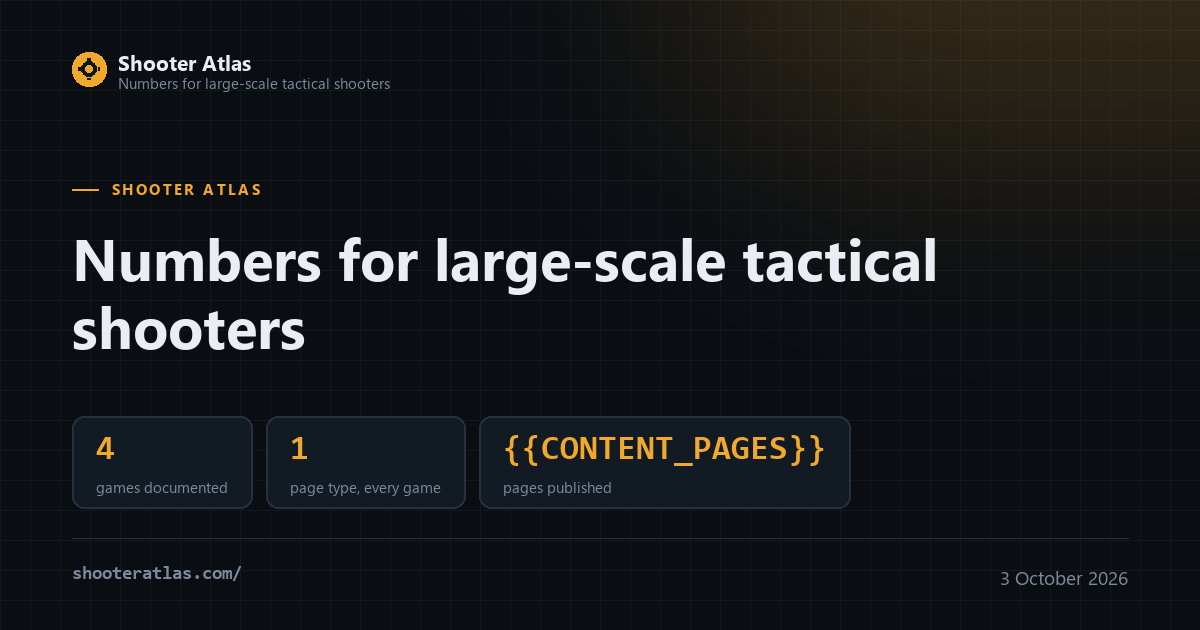
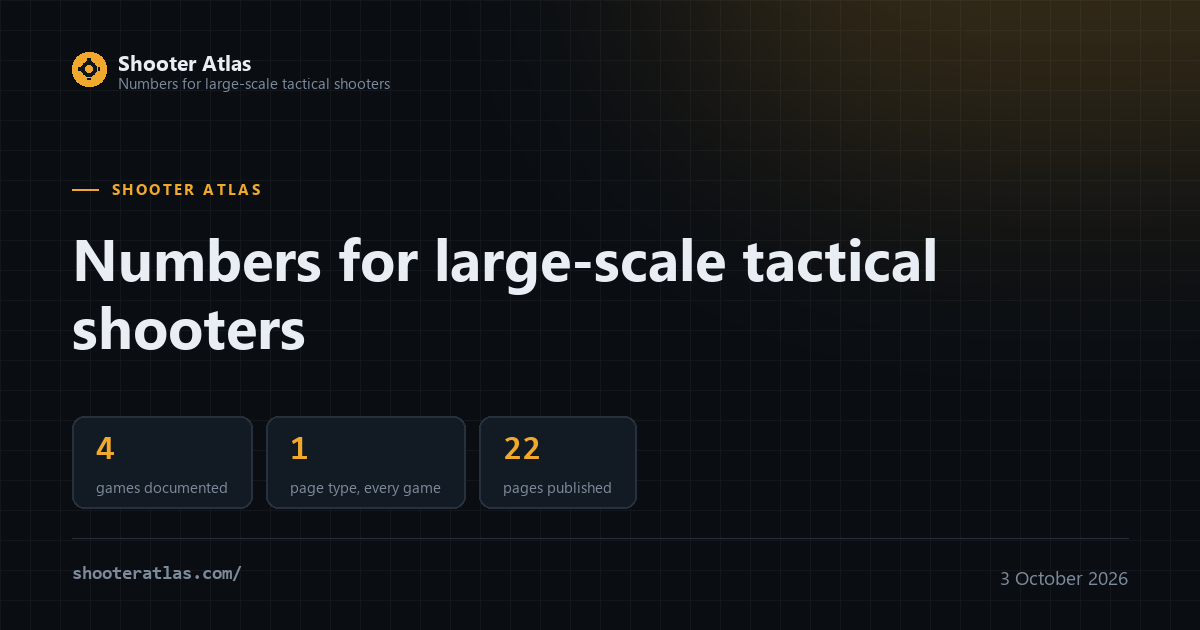
Home card: draw the figure, not the placeholder
The previous commit read the card's three figures out of
src/pages/index.mjs, which is the source of truth, but one of those cells
holds a build-time placeholder: build.mjs substitutes {{CONTENT_PAGES}} when
it renders the page, and a drawing has no render step. The card went out
with {{CONTENT_PAGES}} printed in it.

make-page-images.py now resolves the same placeholder before drawing, with
the counting rule written down next to the colour tokens, which this file
already duplicates for the same reason.

Verified: the card reads "4 games documented", "1 page type, every game"
and "22 pages published", matching the home page's own cells; rebuilt
afterwards so the asset URL carries the new card's hash.

Changed region(s): [[0.4008, 0.6937, 0.7092, 0.754], [0.5242, 0.7841, 0.7092, 0.8143], [0.5242, 0.6333, 0.6783, 0.6635]]

diff --git a/tools/make-page-images.py b/tools/make-page-images.py
@@ -199,7 +199,24 @@ def build(name, eyebrow, headline, stats, path, date, theme):
     return f"{name}{suffix}.png"
 
 
-SRC_INDEX = Path(__file__).resolve().parent.parent / "src" / "pages" / "index.mjs"
+SRC = Path(__file__).resolve().parent.parent / "src"
+SRC_INDEX = SRC / "pages" / "index.mjs"
+
+# build.mjs counts the home page's "pages published" figure at build time and
+# substitutes it into the page. This file reads the page's source, so it has to
+# resolve the same placeholder; the rule is written down again here, the same way
+# the colour tokens are, because a static drawing has no build step of its own.
+NON_CONTENT = {"/", "/about", "/privacy", "/contact"}
+
+
+def content_pages():
+    text = (SRC / "pages.mjs").read_text(encoding="utf-8")
+    body = re.search(r"export const pages = \[(.*?)\];", text, re.S).group(1)
+    entries = [e.strip() for e in body.split(",") if e.strip()]
+    return len(entries) - len(NON_CONTENT)
+
+
+PLACEHOLDERS = {"{{CONTENT_PAGES}}": str(content_pages())}
 
 
 def at_a_glance():
@@ -212,9 +229,10 @@ def at_a_glance():
     source, pages published. The card takes the first two and the fourth.
     """
     html = SRC_INDEX.read_text(encoding="utf-8")
-    return re.findall(
+    pairs = re.findall(
         r'<span class="stat-n">([^<]+)</span><span class="stat-k">([^<]+)</span>', html
     )
+    return [(PLACEHOLDERS.get(v, v), k) for v, k in pairs]
 
 
 CELLS = at_a_glance()
